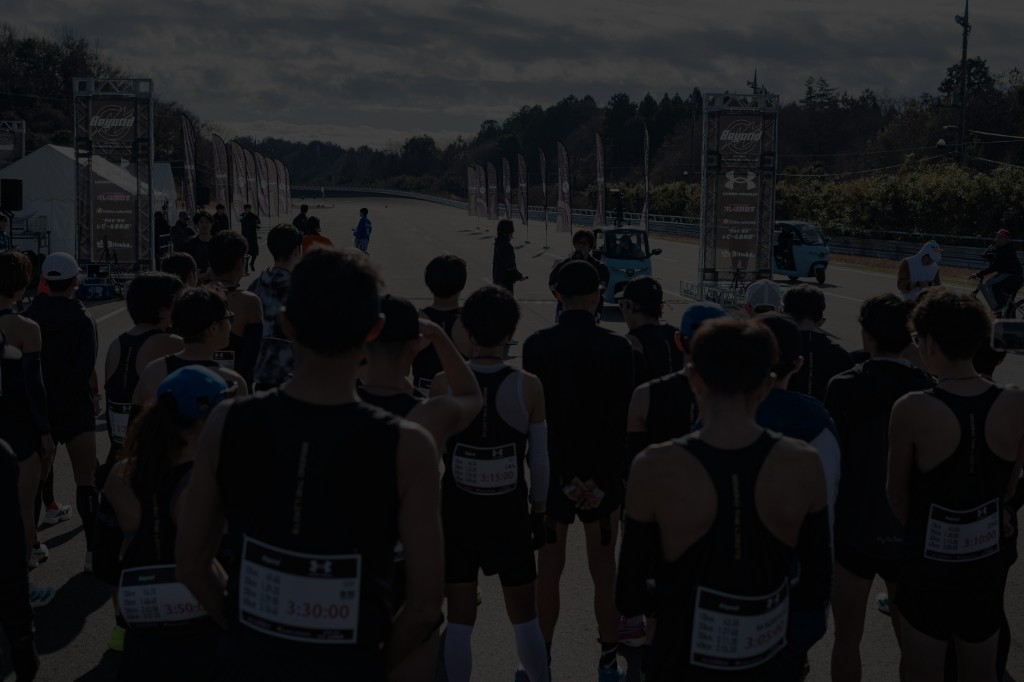
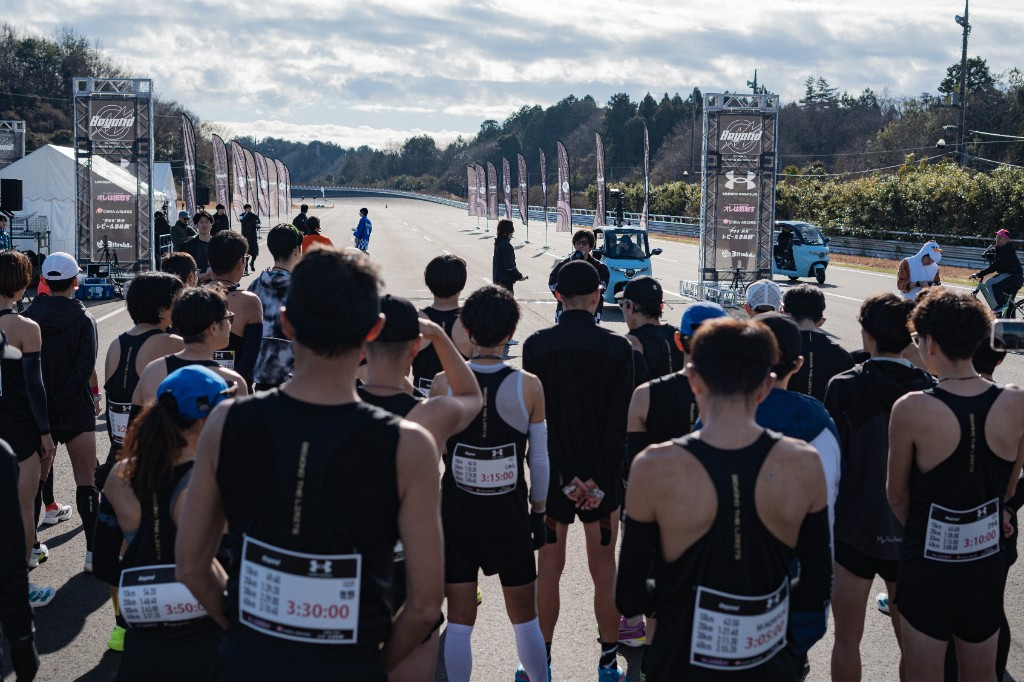
トップのコンテンツ更新とエントリー導線、コンセプト見出し・背景の調整。
ショップ価格を¥0に変更し、モシコムへのENTRYリンクを設置。ボランティア案内・完走セット表記を更新し、コンセプト背景と見出しスタイルをA1 BEYONDに合わせた。

diff --git a/index.html b/index.html
@@ -16,7 +16,7 @@
 <header class="header">
   <a href="#" class="header__logo"><img src="images/beyond-logo.png" alt="BEYOND"></a>
   <nav class="header__nav">
-    <a href="#">ENTRY</a>
+    <a href="https://moshicom.com/148834" target="_blank" rel="noopener">ENTRY</a>
     <a href="news.html">NEWS</a>
     <a href="#shop">SHOP</a>
     <a href="https://www.instagram.com/beyond_marathon/" class="header__icon" aria-label="Instagram" target="_blank" rel="noopener">
@@ -75,10 +75,9 @@
 <section id="concept" class="concept section section--black">
   <div class="fade-in">
   <h2 class="section__title">
-    <span class="section__title-en" aria-hidden="true">CONCEPT</span>
-    <span class="section__title-ja">コンセプト</span>
+    <span class="section__title-en section__title-en--compact" aria-hidden="true">CONCEPT</span>
   </h2>
-  <div class="concept__logo"><img src="images/beyond-logo-full.jpg" alt="BEYOND produced by RUNNING SCIENCE LAB"></div>
+  <div class="concept__logo"><img src="images/beyond-logo-full.png" alt="BEYOND produced by RUNNING SCIENCE LAB"></div>
   <h2 class="concept__heading">#世界一自分を超えられるレース</h2>
   <div class="concept__repeat">
     <p class="concept__repeat-lead">Beyond2026は、「世界一自分を超えられるレース」をテーマに開催します。</p>
@@ -174,7 +173,7 @@
 
   <div class="entry__top">
     <div class="entry__left entry__left--ticket">
-      <a href="#" class="entry__cta">エントリーはこちら</a>
+      <a href="https://moshicom.com/148834" class="entry__cta" target="_blank" rel="noopener">エントリーはこちら</a>
       <p class="entry__period-label">エントリー期間</p>
       <p class="entry__period">８/７　１９：００<br>~１１/３０　２３：５９迄</p>
       <div class="entry__left-buttons">
@@ -214,7 +213,7 @@
       <a href="https://forms.gle/y62hcPFHfuzGdXcu8" class="entry__cta" target="_blank" rel="noopener">ボランティア募集</a>
       <p class="entry__period-label">募集内容</p>
       <p class="entry__period">大会運営を支えるボランティアを募集しています。<br>受付・給水・フィニッシュエリアなど、各ポジションでご参加いただけます。</p>
-      <p class="entry__note">※詳細募集は8/7以降お知らせします</p>
+      <p class="entry__note">今後のスケジュール<br>8月1日（土）〜10月31日（土）ボランティア募集期間<br>11月中旬　案内送付（マニュアル、事前説明会案内）<br>12月上旬　事前説明会実施　※自由参加</p>
     </div>
   </div>
   </div>
@@ -235,8 +234,8 @@
         <div class="shop__grid">
           <article class="shop__card">
             <div class="shop__card-photo"></div>
-            <p class="shop__card-name">完走セット（準備中）</p>
-            <p class="shop__card-price">¥3,500</p>
+            <p class="shop__card-name">完走セット</p>
+            <p class="shop__card-price">¥0</p>
           </article>
           <!-- 商品追加時: 下記をコピーして shop__grid 内に並べる
           <article class="shop__card">

diff --git a/a1beyond-info.html b/a1beyond-info.html
@@ -16,7 +16,7 @@
 <header class="header">
   <a href="index.html" class="header__logo"><img src="images/beyond-logo.png" alt="BEYOND"></a>
   <nav class="header__nav">
-    <a href="#">ENTRY</a>
+    <a href="https://moshicom.com/148834" target="_blank" rel="noopener">ENTRY</a>
     <a href="news.html">NEWS</a>
     <a href="index.html#shop">SHOP</a>
     <a href="https://www.instagram.com/beyond_marathon/" class="header__icon" aria-label="Instagram" target="_blank" rel="noopener">

diff --git a/guidelines.html b/guidelines.html
@@ -16,7 +16,7 @@
 <header class="header">
   <a href="index.html" class="header__logo"><img src="images/beyond-logo.png" alt="BEYOND"></a>
   <nav class="header__nav">
-    <a href="#">ENTRY</a>
+    <a href="https://moshicom.com/148834" target="_blank" rel="noopener">ENTRY</a>
     <a href="news.html">NEWS</a>
     <a href="index.html#shop">SHOP</a>
     <a href="https://www.instagram.com/beyond_marathon/" class="header__icon" aria-label="Instagram" target="_blank" rel="noopener">

diff --git a/news.html b/news.html
@@ -18,7 +18,7 @@
 <header class="header">
   <a href="index.html" class="header__logo"><img src="images/beyond-logo.png" alt="BEYOND"></a>
   <nav class="header__nav">
-    <a href="#">ENTRY</a>
+    <a href="https://moshicom.com/148834" target="_blank" rel="noopener">ENTRY</a>
     <a href="news.html">NEWS</a>
     <a href="index.html#shop">SHOP</a>
     <a href="https://www.instagram.com/beyond_marathon/" class="header__icon" aria-label="Instagram" target="_blank" rel="noopener">

diff --git a/race-info.html b/race-info.html
@@ -16,7 +16,7 @@
 <header class="header">
   <a href="index.html" class="header__logo"><img src="images/beyond-logo.png" alt="BEYOND"></a>
   <nav class="header__nav">
-    <a href="#">ENTRY</a>
+    <a href="https://moshicom.com/148834" target="_blank" rel="noopener">ENTRY</a>
     <a href="news.html">NEWS</a>
     <a href="index.html#shop">SHOP</a>
     <a href="https://www.instagram.com/beyond_marathon/" class="header__icon" aria-label="Instagram" target="_blank" rel="noopener">

diff --git a/style.css b/style.css
@@ -219,10 +219,12 @@ img {
   margin-right: auto;
 }
 
+.concept .section__title-ja,
 .a1beyond .section__title-ja {
   display: none;
 }
 
+.concept .section__title-en,
 .a1beyond .section__title-en {
   opacity: 1;
   color: var(--teal);

diff --git a/wp-theme/beyond2026/template-parts/front-page-content.php b/wp-theme/beyond2026/template-parts/front-page-content.php
@@ -31,10 +31,9 @@ defined( 'ABSPATH' ) || exit;
 <section id="concept" class="concept section section--black">
   <div class="fade-in">
   <h2 class="section__title">
-    <span class="section__title-en" aria-hidden="true">CONCEPT</span>
-    <span class="section__title-ja">コンセプト</span>
+    <span class="section__title-en section__title-en--compact" aria-hidden="true">CONCEPT</span>
   </h2>
-  <div class="concept__logo"><img src="<?php echo esc_url( beyond_asset_url( 'beyond-logo-full.jpg' ) ); ?>" alt="BEYOND produced by RUNNING SCIENCE LAB"></div>
+  <div class="concept__logo"><img src="<?php echo esc_url( beyond_asset_url( 'beyond-logo-full.png' ) ); ?>" alt="BEYOND produced by RUNNING SCIENCE LAB"></div>
   <h2 class="concept__heading">#世界一自分を超えられるレース</h2>
   <div class="concept__repeat">
     <p class="concept__repeat-lead">Beyond2026は、「世界一自分を超えられるレース」をテーマに開催します。</p>
@@ -170,7 +169,7 @@ defined( 'ABSPATH' ) || exit;
       <a href="https://forms.gle/y62hcPFHfuzGdXcu8" class="entry__cta" target="_blank" rel="noopener">ボランティア募集</a>
       <p class="entry__period-label">募集内容</p>
       <p class="entry__period">大会運営を支えるボランティアを募集しています。<br>受付・給水・フィニッシュエリアなど、各ポジションでご参加いただけます。</p>
-      <p class="entry__note">※詳細募集は8/7以降お知らせします</p>
+      <p class="entry__note">今後のスケジュール<br>8月1日（土）〜10月31日（土）ボランティア募集期間<br>11月中旬　案内送付（マニュアル、事前説明会案内）<br>12月上旬　事前説明会実施　※自由参加</p>
     </div>
   </div>
   </div>
@@ -191,8 +190,8 @@ defined( 'ABSPATH' ) || exit;
         <div class="shop__grid">
           <article class="shop__card">
             <div class="shop__card-photo"></div>
-            <p class="shop__card-name">完走セット（準備中）</p>
-            <p class="shop__card-price">¥3,500</p>
+            <p class="shop__card-name">完走セット</p>
+            <p class="shop__card-price">¥0</p>
           </article>
         </div>
       </div>
